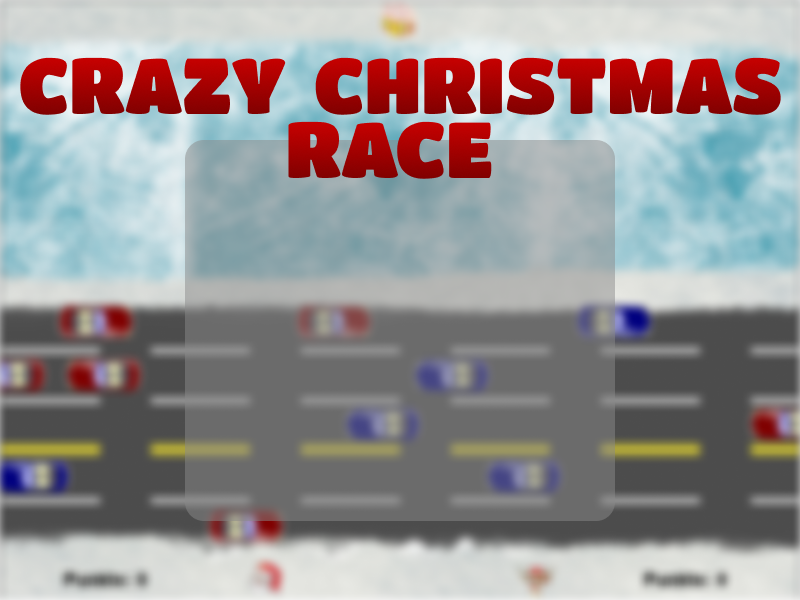
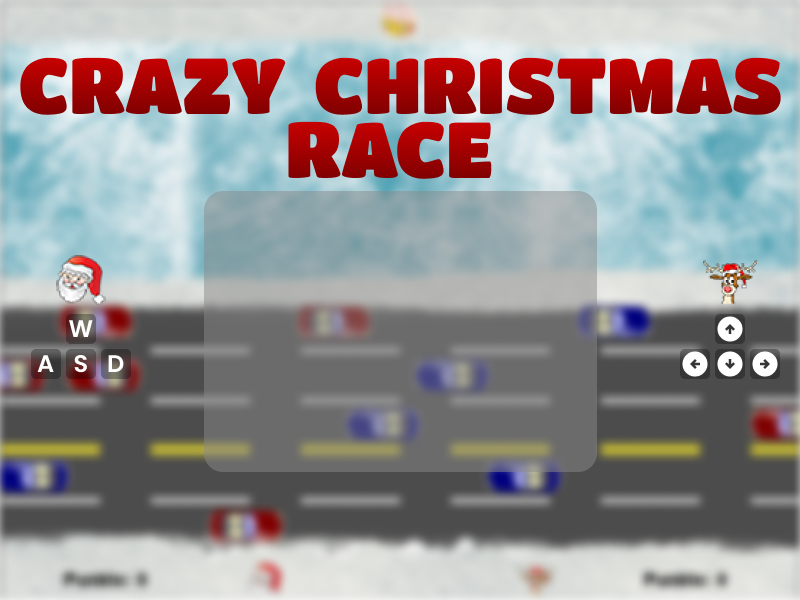
Screen

diff --git a/Button.java b/Button.java
@@ -1,5 +1,3 @@
-import javax.swing.plaf.basic.BasicSplitPaneUI.BasicHorizontalLayoutManager;
-
 import greenfoot.*;  // (World, Actor, GreenfootImage, Greenfoot and MouseInfo)
 
 /**
@@ -8,27 +6,47 @@ import greenfoot.*;  // (World, Actor, GreenfootImage, Greenfoot and MouseInfo)
  * @author (your name) 
  * @version (a version number or a date)
  */
-public class Button extends Actor
+public abstract class Button extends Actor
 {
-    private String buttonText;
-    
-    
-    public Button() {
-        this.buttonText = "Unnamed";
+    private String imageLink;
+    boolean hovering;
+    public Button(String imageLink) {
+
+        if (imageLink == null || imageLink.length() == 0) {
+            setImageLink("button.png");
+        } else {
+            setImageLink(imageLink);
+        }   
     }
-    
-    public Button(String text) {
-        this.buttonText  = text;
+
+    public String getImageLink() {
+        return imageLink;
+    }
+
+    public void setImageLink(String imageLink) {
+        this.imageLink = imageLink;
+        setImage(this.imageLink);
     }
 
 
 
     public void onHover() {
-
+        this.setLocation(getX(), getY() + 5);
     }
+
+    public abstract void onClick();
     
     public void act() 
     {
-        // Add your action code here.
+        if (Greenfoot.mouseMoved(this)) {
+            this.hovering = true;
+            onHover();
+        } else {
+            this.hovering = false;
+        }
+
+        if (Greenfoot.mouseClicked(this)) {
+            onClick();
+        }
     }    
 }

diff --git a/StartScreen.java b/StartScreen.java
@@ -13,14 +13,11 @@ public class StartScreen extends World
      */
     public StartScreen()
     {    
-        
+
         super(800, 600, 1); 
-        
-        
-        
 
+        prepare();
     }
-
 
     @Override
     public void act() {    
@@ -29,10 +26,19 @@ public class StartScreen extends World
 
     public void loadButtons() {
 
-
     }
 
+    /**
+     * Prepare the world for the start of the program.
+     * That is: create the initial objects and add them to the world.
+     */
+    private void prepare()
+    {
 
+        addObject(new ButtonCredits(),395,417);
 
+        addObject(new ButtonMechanics(),395,333);
 
+        addObject(new ButtonStartGame(),395,253);
+    }
 }

diff --git a/Rentier.java b/Rentier.java
@@ -4,6 +4,6 @@ public class Rentier extends Player
     public Rentier()
     {
         //Konstruktor von Player ausführen
-        super(new String[]{"i","j","k","l"},536, 580, Winterwelt.counterRentier);
+        super(new String[]{"up","left","right","down"},536, 580, Winterwelt.counterRentier);
     }
 }

diff --git a/ButtonStartGame.java b/ButtonStartGame.java
@@ -1,0 +1,14 @@
+import greenfoot.*;
+public class ButtonStartGame extends Button {
+
+
+    public ButtonStartGame() {
+        super("ButtonStartGame.png");
+    }
+
+    @Override
+    public void onClick() {
+        Greenfoot.setWorld(new Winterwelt());
+    }
+    
+}

diff --git a/ButtonMechanics.java b/ButtonMechanics.java
@@ -1,0 +1,14 @@
+public class ButtonMechanics extends Button {
+
+
+    public ButtonMechanics() {
+        super("ButtonMechanics.png");
+    }
+
+    @Override
+    public void onClick() {
+        // TODO Auto-generated method stub
+        
+    }
+    
+}

diff --git a/ButtonCredits.java b/ButtonCredits.java
@@ -1,0 +1,14 @@
+public class ButtonCredits extends Button {
+
+
+    public ButtonCredits() {
+        super("ButtonCredits.png");
+    }
+
+    @Override
+    public void onClick() {
+        // TODO Auto-generated method stub
+        
+    }
+    
+}
